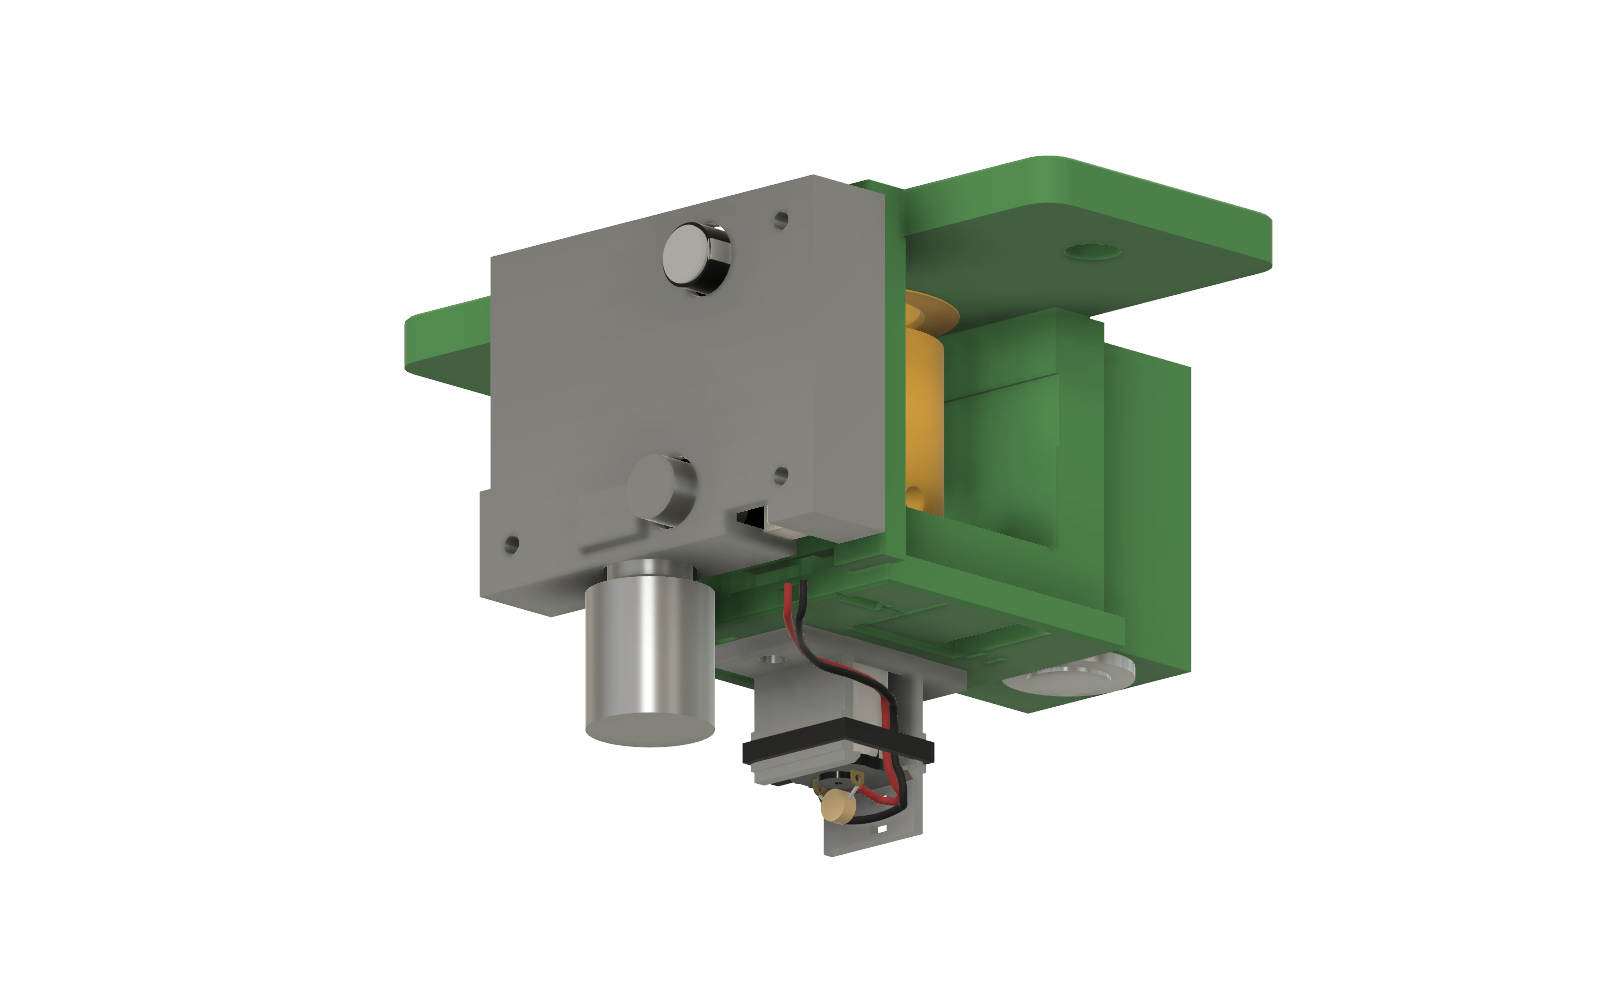
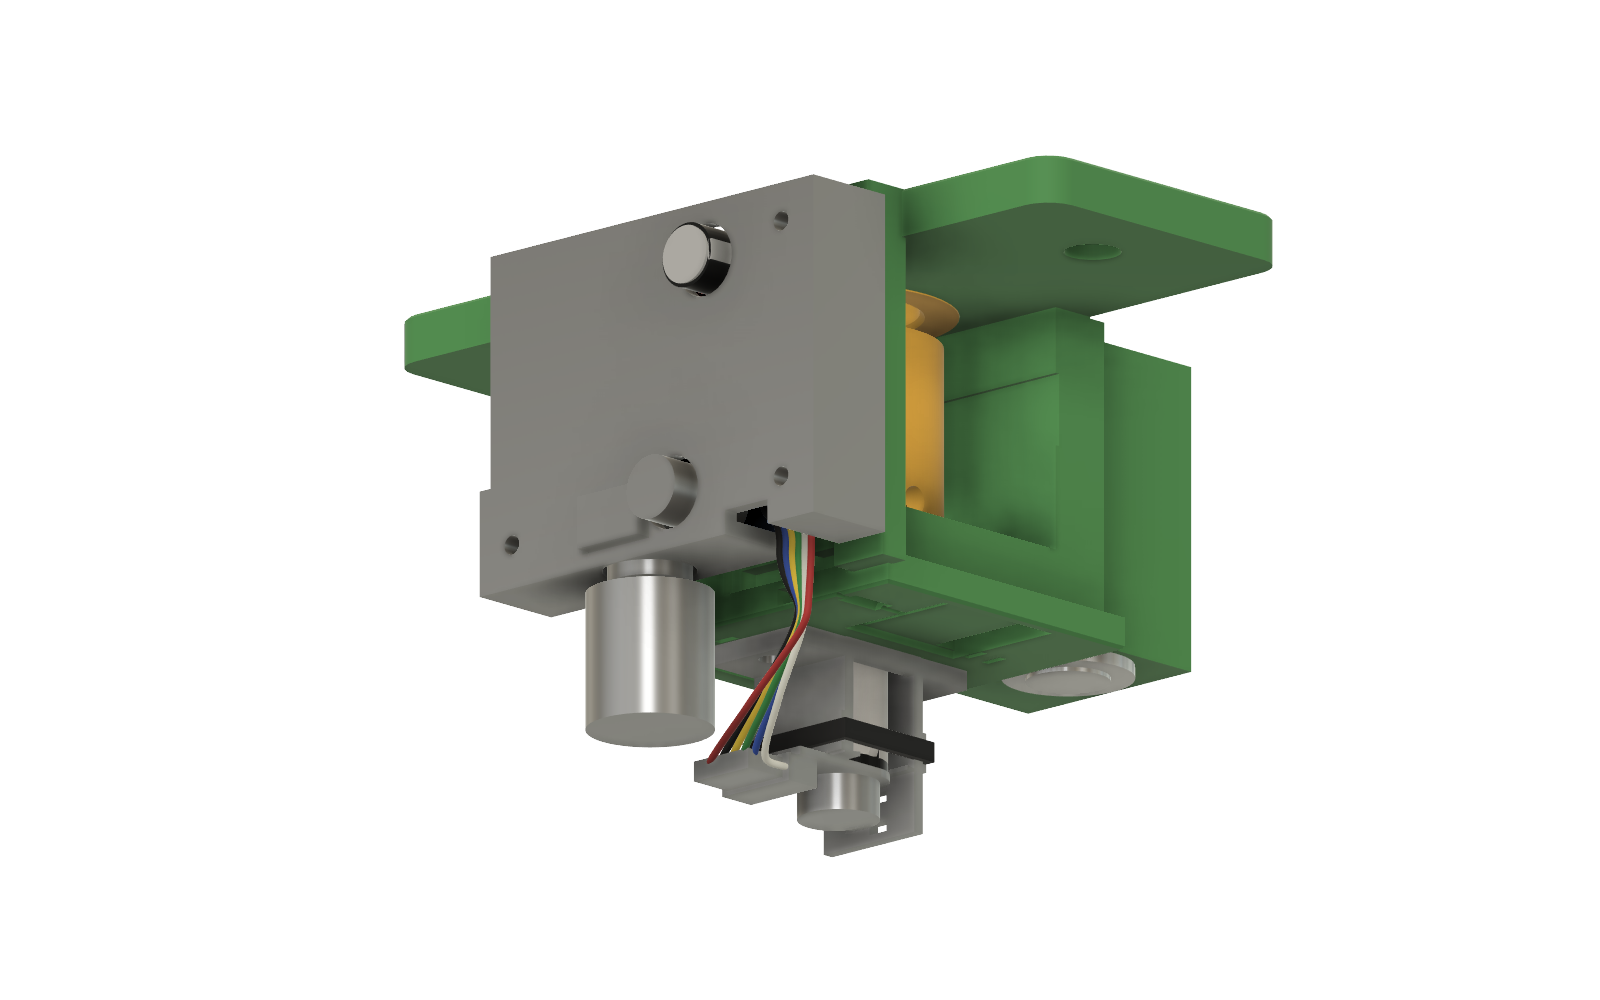
N20: re-render the perfboard pictures and redraw the hole map for the encoder motor
- shots.py: the encoder is part of the cartridge set, and the
  perfboard shot shows the motor cable W24-W29 and C2 in place of
  W14/W15. Re-rendered perfboard, perfboard_cover, wiring_electronics
  and wiring_under_base from Fusion version 39.
- perfboard.svg: C2 at I2/I3 replaces the 2-pin J4 header; the six
  cable wires come in at the notch edge (J2-J5, and over the modules
  to I15/I13); underside links W30 and W31; the key moves to the
  lower left. Alt text and title block updated.
- Alt text in wiring.md, perfboard.md and the README describes the
  new pictures; the "before the encoder motor" notes are gone.

motor_clamp.png still shows the old clamp, which the encoder motor
doesn't use; it isn't referenced by the encoder docs.

Changed region(s): [[0.4375, 0.527, 0.5938, 0.837]]

diff --git a/drives/n20/cad/fusion/shots.py b/drives/n20/cad/fusion/shots.py
@@ -7,7 +7,7 @@ exec(open(os.path.join(REPO, 'drives', 'mg90s', 'cad', 'fusion', 'photo.py')).re
 
 ALWAYS_OFF = ('Box_Wall', 'Dowel_075', 'Dowel_025', 'Dowel_0625', 'Fit_Test_Coupon', 'N20_Fit_Coupon', 'PETG_Fit_Coupon',
               'Panel_Fit_Coupon', 'Dowel_Fit_Gauge')
-CART = ('N20_Cartridge', 'N20 DC MOTOR', 'HW_Arm_Zip_Tie')
+CART = ('N20_Cartridge', 'N20 DC MOTOR', 'N20_Encoder', 'HW_Arm_Zip_Tie')
 POD = ('Control_Pod', 'S1_12mm_Button')   # rev C: RV1 is on the perfboard; no direction switch, no J3
 ELEC = ('Servo_Mount', 'Perfboard', 'N20_Electronics_Cover', 'C1_470uF_10V', 'Wiring')   # rev C: the PD board is on the perfboard
 SHOTS = {
@@ -21,7 +21,7 @@ SHOTS = {
         eye=(-260, -70, 150), target=(-3, 0, 1), ortho=True, extent=44),
     'clamp_0625_caphead': dict(show=('Adapter_Clamp_0625', 'HW_Clamp0625_Screws'), eye=(80, 220, 90), target=(0, 3, 17), ortho=True, extent=42),
     'pod_button': dict(show=POD + ('Wiring',), wires=('W6 ', 'W11 '), opacity={'Control_Pod': 0.45}, eye=(-90, -160, 70), target=(1, 32, 13), ortho=True, extent=46),
-    'perfboard': dict(show=ELEC, hide=('N20_Electronics_Cover',), wires=('W1 ', 'W2 ', 'W14 ', 'W15 ', 'D1 '),
+    'perfboard': dict(show=ELEC, hide=('N20_Electronics_Cover',), wires=('W1 ', 'W2 ', 'W24 ', 'W25 ', 'W26 ', 'W27 ', 'W28 ', 'W29 ', 'C2 ', 'D1 '),
         eye=(130, -300, 110), target=(5, -30, 14), ortho=True, extent=72),
     'perfboard_cover': dict(show=ELEC + CART + POD + ('Adapter_075', 'Bushing_075'), eye=(240, -260, -90), target=(5, -12, 6), ortho=True, extent=120),
     'motor_clamp': dict(show=CART + ('Wiring',), wires=('W14 ', 'W15 ', 'C2'), eye=(90, 200, -120), target=(2, 3, -25), ortho=True, extent=30),

diff --git a/drives/n20/docs/wiring.md b/drives/n20/docs/wiring.md
@@ -72,13 +72,11 @@ The module has two rows of six pins. Seen from the back, where the labels are pr
 
 Bold pins are used. On the perfboard, component side up, these rows land in columns D and H, read the other way round: [perfboard.md](perfboard.md#placement) has the hole for each pin. Check against the labels on your module before soldering.
 
-The three pictures below are from before the encoder motor (they haven't been re-rendered since Fusion version 39): they show the 2-pin header J4 at J2/J3 and the red and black pair, which the cable W24–W29 replaces.
+![The electronics side of the drive with the cover off: the perfboard stands on its supports on the mount's -Y face. The PD board lies over the top-left corner of the perfboard with short red and black jumpers down to the buses, and its USB-C port and the Super Mini's both face left. The DRV8833 is at the right, with D1 and the capacitor C1 standing above it and the tan disc of C2 standing beside it. The speed pot RV1 and the hold-up capacitor C3 stand along the bottom edge. The motor cable's six wires come up from the encoder below into the board's right-hand edge: red, white, blue and black go straight into the edge holes, and the green and yellow pair loop over the DRV8833 and the Super Mini to holes beside the Super Mini.](images/perfboard.png)
 
-![Before the encoder motor: the electronics side of the drive with the cover off: the perfboard stands on its supports on the mount's -Y face. The PD board lies over the top-left corner of the perfboard with short red and black jumpers down to the buses, and its USB-C port and the Super Mini's both face left. The DRV8833 is at the right with D1 and the capacitor C1 standing above it, and the speed pot RV1, the hold-up capacitor C3 standing, and J4 are along the bottom edge, left to right: the pot stands on the board with its shaft and black knob cap pointing down, off the edge. The red and black motor pair leaves J4 downward.](images/perfboard.png)
+![The whole drive from the electronics side with the cover on: the gray printed cover forms the mount's outer wall, with the knob's cap and the top of C1 standing out of it. The motor cable's six coloured wires come out of the notch in the cover's bottom wall and run down to the plug on the encoder at the back of the motor, which hangs in its cartridge below the base.](images/perfboard_cover.png)
 
-![Before the encoder motor: the whole drive from the electronics side with the cover on: the gray printed cover forms the mount's outer wall, with the knob's cap and the top of C1 standing out of it and a notch at its bottom edge where the motor pair comes out. The pair runs under the base to the motor, which hangs in its cartridge.](images/perfboard_cover.png)
-
-![Before the encoder motor: straight-on view of the electronics side with the cover off and the perfboard see-through. C1 stands near the top-right corner, its sleeved leads bent out to the board. The wires behind the board are visible: the button's two wires coming up from the base tunnel, and the underside links. The PD board's jumpers and J4 sit on the front, and the motor pair drops from J4 to the cartridge below.](images/wiring_electronics.png)
+![Straight-on view of the electronics side with the cover off and the perfboard see-through. C1 stands near the top-right corner, its sleeved leads bent out to the board. The wires behind the board are visible: the button's two wires coming up from the base tunnel, and the underside links. The PD board's jumpers sit on the front. At the bottom right, C2 stands at the board's edge and the motor cable's six wires rise from below into the edge holes, the green and yellow pair arching left over the modules.](images/wiring_electronics.png)
 
 ## The button (S1)
 
@@ -113,7 +111,7 @@ The hole J4 and the plug J4 share a name only by chance.
 - **Strain relief:** the cable's plug latches into the encoder's socket. Leave a little slack at the plug, and if the cable pulls, tie it to the cartridge's arms with their zip tie.
 - **In the model from Fusion version 39** (`cad/fusion/wires.py`), with the cable's wires taken as 0.9 mm over the insulation (unconfirmed). At the notch they lie side by side at 1.04 mm pitch, in the order they land (W25, W24, W28, W29, W26, W27 from the +X end), with 0.1–0.4 mm to spare in its 7 mm. Between the plug and the base's edge they cross over to get into that order. W28 and W29 run 7.4 mm above the board, over C2 and the Super Mini's USB-C, and 1 mm under the cover. If your cable's wires are thicker than 0.9 mm, check the notch.
 
-![The underside of the mount, from below, before the encoder motor: the plain N20 in its cartridge on the dowel axis, with the black zip tie round its arms and C2 across its terminals. The empty DRV8833 pocket and diode channel of the XIAO build are beside it. At the bottom of the picture the cover hangs below the base's edge, and the red and black motor pair (the old W14 and W15) comes out of the notch in its bottom wall, runs across under the base and down the motor's side. The encoder motor's cable takes the same path to the notch.](images/wiring_under_base.png)
+![The underside of the mount, from below: the encoder motor in its cartridge on the dowel axis, with the black zip tie round its arms and the encoder's plug on the board at its back. The motor cable's six coloured wires leave the plug, run across under the base and up into the notch at the cover's bottom wall, where they spread out to the perfboard.](images/wiring_under_base.png)
 
 ## Point-to-point wire list
 

diff --git a/drives/n20/README.md b/drives/n20/README.md
@@ -115,7 +115,8 @@ The drive can take an N20 with a magnetic Hall encoder on its back: the MECCANIX
 - **Wiring:** the motor unplugs at the encoder's own socket, now **J4**; the 2-pin header at J2/J3, W14, W15 and the cartridge's wire clamp aren't used. The cable's six wires (W24–W29) come in through the cover's notch: M1 and M2 to OUT3 and OUT4 (J3, J2), GND and VCC to J4 and J5, which the links W30 and W31 join to GND and 3V3, and C1 and C2 to GPIO0 and GPIO2 (I15, I13). C2 (100 nF) moved to the perfboard at I2/I3. See [docs/wiring.md](docs/wiring.md#j4-the-motor-cable) and the [schematic](docs/images/schematic.svg) (rev C.6).
 - **Firmware:** `HAS_ENCODER` in `firmware/main/board.h` (Super Mini N20 build), `firmware/main/encoder.c`. See [Firmware](#firmware).
 - **Model:** Fusion version 39 routes the cable and the two links ([`cad/fusion/wires.py`](cad/fusion/wires.py)), stands C2 at I2/I3, and hides the 2-pin header. The cut lengths come from those routes.
-- **Still to do:** re-render the perfboard pictures and redraw the hole map (perfboard.svg), and check on hardware: the encoder's 3.3 V, the count direction (`ENC_REVERSED`), 4200 counts per turn, that the six wires pass the cover's 7 mm notch (the model has 0.9 mm wires at 1.04 mm pitch), and the cable's real length.
+- The perfboard pictures and the hole map show the encoder motor's wiring (re-rendered 2026-11-08).
+- **Still to do:** check on hardware: the encoder's 3.3 V, the count direction (`ENC_REVERSED`), 4200 counts per turn, that the six wires pass the cover's 7 mm notch (the model has 0.9 mm wires at 1.04 mm pitch), and the cable's real length.
 
 ## What changed on 2026-10-31 (rev C)
 
@@ -129,7 +130,7 @@ After the first units were built:
 | 4 | Speed knob | An **RK097N**-style pot on the perfboard. As built (2026-11-03) it stands on its pins with its shaft parallel to the board, through a Ø7.2 mm hole in the cover's J-edge wall, which its nut clamps. Its pins go straight into the GPIO4 and GPIO3 strips: GPIO4 reads the wiper and GPIO3, driven low, is its ground. The firmware inverts the reading so clockwise is still faster, and the 0–100 scaling is unchanged, so the web app's virtual knob behaves as before. |
 | 5 | Wiring | W4, W5, W12 and W13 are underside links, joined by W16, W17, W18 and W21–W23. C3, a 470 µF hold-up capacitor after D1, keeps the Super Mini running through motor starts and stalls. W7, W8, W7p, W8p and J2 are gone, and J3 pins 4 and 5 are unused. W1 and W2 are short jumpers from the PD board's pads. Wires from the mount go into the board from the underside. The motor pair runs from the cover's bottom notch under the base to the motor. Cut list rebuilt from the model. |
 
-![The perfboard on the mount's -Y face with the cover off: the PD board over its top-left corner, the Super Mini below it, the DRV8833 at the right with D1 and the capacitor C1 standing above it, the speed pot, the hold-up capacitor C3 standing and J4 along the bottom edge (the pot standing, its shaft and cap pointing down off the edge), and the motor pair leaving J4 downward.](docs/images/perfboard.png)
+![The perfboard on the mount's -Y face with the cover off: the PD board over its top-left corner, the Super Mini below it, the DRV8833 at the right with D1 and the capacitor C1 standing above it, C2 standing beside it, the speed pot and the hold-up capacitor C3 standing along the bottom edge (the pot standing, its shaft and cap pointing down off the edge), and the encoder motor's six-wire cable coming up into the board's edge, its green and yellow pair looping over the modules.](docs/images/perfboard.png)
 
 ## Snap-fit motor (2026-10-27)
 

diff --git a/drives/n20/docs/perfboard.md b/drives/n20/docs/perfboard.md
@@ -14,7 +14,7 @@ From rev C the electronics are soldered onto an **ElectroCookie mini solderable 
 
 Everything is on the board: C1 stands on it, and its top comes through a 9 mm hole in the cover. The motor's cable plugs into its encoder (J4) and is soldered to the board at the other end, and the button in the pod is wired straight to the board (W6, W11); there's no direction switch. The board sits on the mount's electronics-side (−Y) face under a printed cover that forms the mount's outer wall, and the knob comes out of the cover sideways (see [Where it goes](#where-it-goes)). The schematic and the full wire list are in [wiring.md](wiring.md).
 
-![Hole map of the perfboard, seen from the component side with row 1 at the top and column A at the left. The DRV8833 straddles the centre channel in rows 1 to 6, with the old 2-pin J4 motor header beside it at J2 and J3, and D1 stands at A3 with its cathode lead in A2. The Super Mini straddles the channel in rows 12 to 17, with its USB-C port past row 17. The PD trigger board U1 lies over columns A to C, rows 9 to 17, its USB-C port also past row 17, with short jumpers from its pads to the 5 V bus (row 7) and the ground bus (row 8). The speed pot RV1 stands on its pins at J10 to J12, in the strips of 3V3, GPIO4 and GPIO3, its shaft pointing off the right-hand edge, parallel to the board. C3 stands over I7 and I8. This hole map is from before the encoder motor: it doesn't show C2 at I2/I3, the motor cable's holes J2 to J5, I13 and I15, or the links W30 and W31. C1 stands over columns A to C, rows 4 to 7, between D1 and the PD board, with its leads bent out to C7 (+) and B4 (−). Links on the underside join the buses, the driver signals, the pot's 3V3 end and C3.](images/perfboard.svg)
+![Hole map of the perfboard, seen from the component side with row 1 at the top and column A at the left. The DRV8833 straddles the centre channel in rows 1 to 6, with C2 standing beside it at I2 and I3, and D1 stands at A3 with its cathode lead in A2. The Super Mini straddles the channel in rows 12 to 17, with its USB-C port past row 17. The PD trigger board U1 lies over columns A to C, rows 9 to 17, its USB-C port also past row 17, with short jumpers from its pads to the 5 V bus (row 7) and the ground bus (row 8). The speed pot RV1 stands on its pins at J10 to J12, in the strips of 3V3, GPIO4 and GPIO3, its shaft pointing off the right-hand edge, parallel to the board. C3 stands over I7 and I8. The motor cable comes in from the right-hand edge through the cover's notch: W25 (red, M2) into J2, W24 (white, M1) into J3, W26 (blue, encoder ground) into J4 and W27 (black, encoder 3.3 V) into J5; W28 (green) and W29 (yellow) run over the DRV8833 and the Super Mini into I15 (GPIO0) and I13 (GPIO2). C1 stands over columns A to C, rows 4 to 7, between D1 and the PD board, with its leads bent out to C7 (+) and B4 (−). Links on the underside join the buses, the driver signals, the pot's 3V3 end, C3, and the encoder's ground and 3.3 V (W30, W31).](images/perfboard.svg)
 
 ## The board
 
